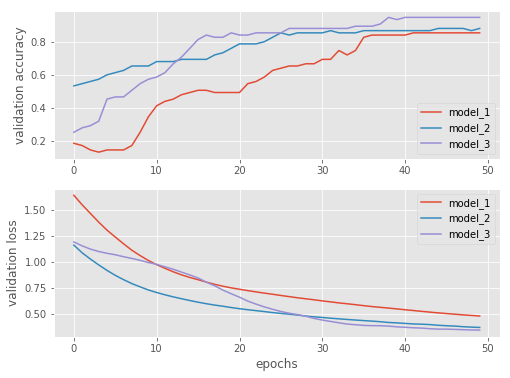
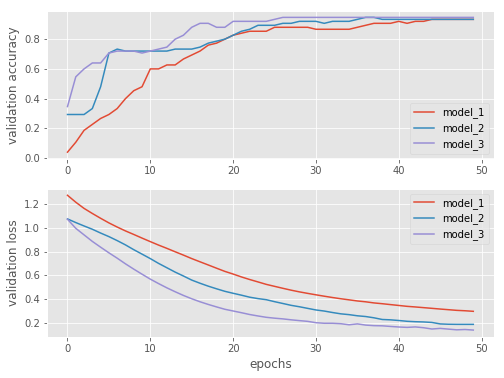
Update post

diff --git a/notebooks/_posts/2018-08-04-keras-iris.md b/notebooks/_posts/2018-08-04-keras-iris.md
@@ -3,7 +3,6 @@ layout: post
 category: notebooks
 title: "Classifying the Iris Data Set with Keras"
 tags: [Python, Keras, Neural Networks]
-comments: true
 ---
 
 In this short notebook we will take a quick look on how to use [Keras](https://keras.io/) with the familiar Iris data set. We will compare networks with the regular [Dense](https://keras.io/layers/core/) layer with different number of nodes and we will employ a [Softmax](https://en.wikipedia.org/wiki/Softmax_function) activation function and the [Adam](https://arxiv.org/abs/1412.6980) optimizer.
@@ -78,7 +77,7 @@ plt.legend();
 ```
 
 
-![png]({{ site.baseurl }}/notebooks/assets//keras_iris_files/output_5_0.png)
+![png]({{ site.baseurl }}/notebooks/assets/keras_iris_files/output_5_0.png)
 
 
 # Configure Neural Network Models
@@ -92,7 +91,7 @@ import warnings
 warnings.simplefilter(action='ignore', category=FutureWarning)
 
 from keras.models import Sequential
-from keras.layers import Dense, Dropout, Activation
+from keras.layers import Dense
 
 def create_custom_model(input_dim, output_dim, nodes, n=1, name='model'):
     def create_model():
@@ -124,8 +123,6 @@ for create_model in models:
     =================================================================
     dense_1 (Dense)              (None, 8)                 40        
     _________________________________________________________________
-    dropout_1 (Dropout)          (None, 8)                 0         
-    _________________________________________________________________
     dense_2 (Dense)              (None, 3)                 27        
     =================================================================
     Total params: 67
@@ -137,11 +134,7 @@ for create_model in models:
     =================================================================
     dense_3 (Dense)              (None, 8)                 40        
     _________________________________________________________________
-    dropout_2 (Dropout)          (None, 8)                 0         
-    _________________________________________________________________
     dense_4 (Dense)              (None, 8)                 72        
-    _________________________________________________________________
-    dropout_3 (Dropout)          (None, 8)                 0         
     _________________________________________________________________
     dense_5 (Dense)              (None, 3)                 27        
     =================================================================
@@ -154,15 +147,9 @@ for create_model in models:
     =================================================================
     dense_6 (Dense)              (None, 8)                 40        
     _________________________________________________________________
-    dropout_4 (Dropout)          (None, 8)                 0         
-    _________________________________________________________________
     dense_7 (Dense)              (None, 8)                 72        
     _________________________________________________________________
-    dropout_5 (Dropout)          (None, 8)                 0         
-    _________________________________________________________________
     dense_8 (Dense)              (None, 8)                 72        
-    _________________________________________________________________
-    dropout_6 (Dropout)          (None, 8)                 0         
     _________________________________________________________________
     dense_9 (Dense)              (None, 3)                 27        
     =================================================================
@@ -202,13 +189,13 @@ for create_model in models:
 ```
 
     Model name: model_1
-    Test loss: 0.4788510775566101
-    Test accuracy: 0.8533333373069764
+    Test loss: 0.2956871708234151
+    Test accuracy: 0.9333333333333333
     Model name: model_2
-    Test loss: 0.36840104262034096
-    Test accuracy: 0.88
+    Test loss: 0.185623845855395
+    Test accuracy: 0.9333333333333333
     Model name: model_3
-    Test loss: 0.3430390799045563
+    Test loss: 0.13748167728384336
     Test accuracy: 0.9466666666666667
 
 
@@ -235,7 +222,7 @@ plt.show()
 ```
 
 
-![png]({{ site.baseurl }}/notebooks/assets//keras_iris_files/output_11_0.png)
+![png]({{ site.baseurl }}/notebooks/assets/keras_iris_files/output_11_0.png)
 
 
 # Show ROC Curve
@@ -263,7 +250,7 @@ plt.legend();
 ```
 
 
-![png]({{ site.baseurl }}/notebooks/assets//keras_iris_files/output_13_0.png)
+![png]({{ site.baseurl }}/notebooks/assets/keras_iris_files/output_13_0.png)
 
 
 # Measure Performance with Cross Validation
@@ -282,5 +269,4 @@ scores = cross_val_score(estimator, X_scaled, Y, cv=10)
 print("Accuracy : {:0.2f} (+/- {:0.2f})".format(scores.mean(), scores.std()))
 ```
 
-    Accuracy : 0.93 (+/- 0.07)
-
+    Accuracy : 0.94 (+/- 0.08)
